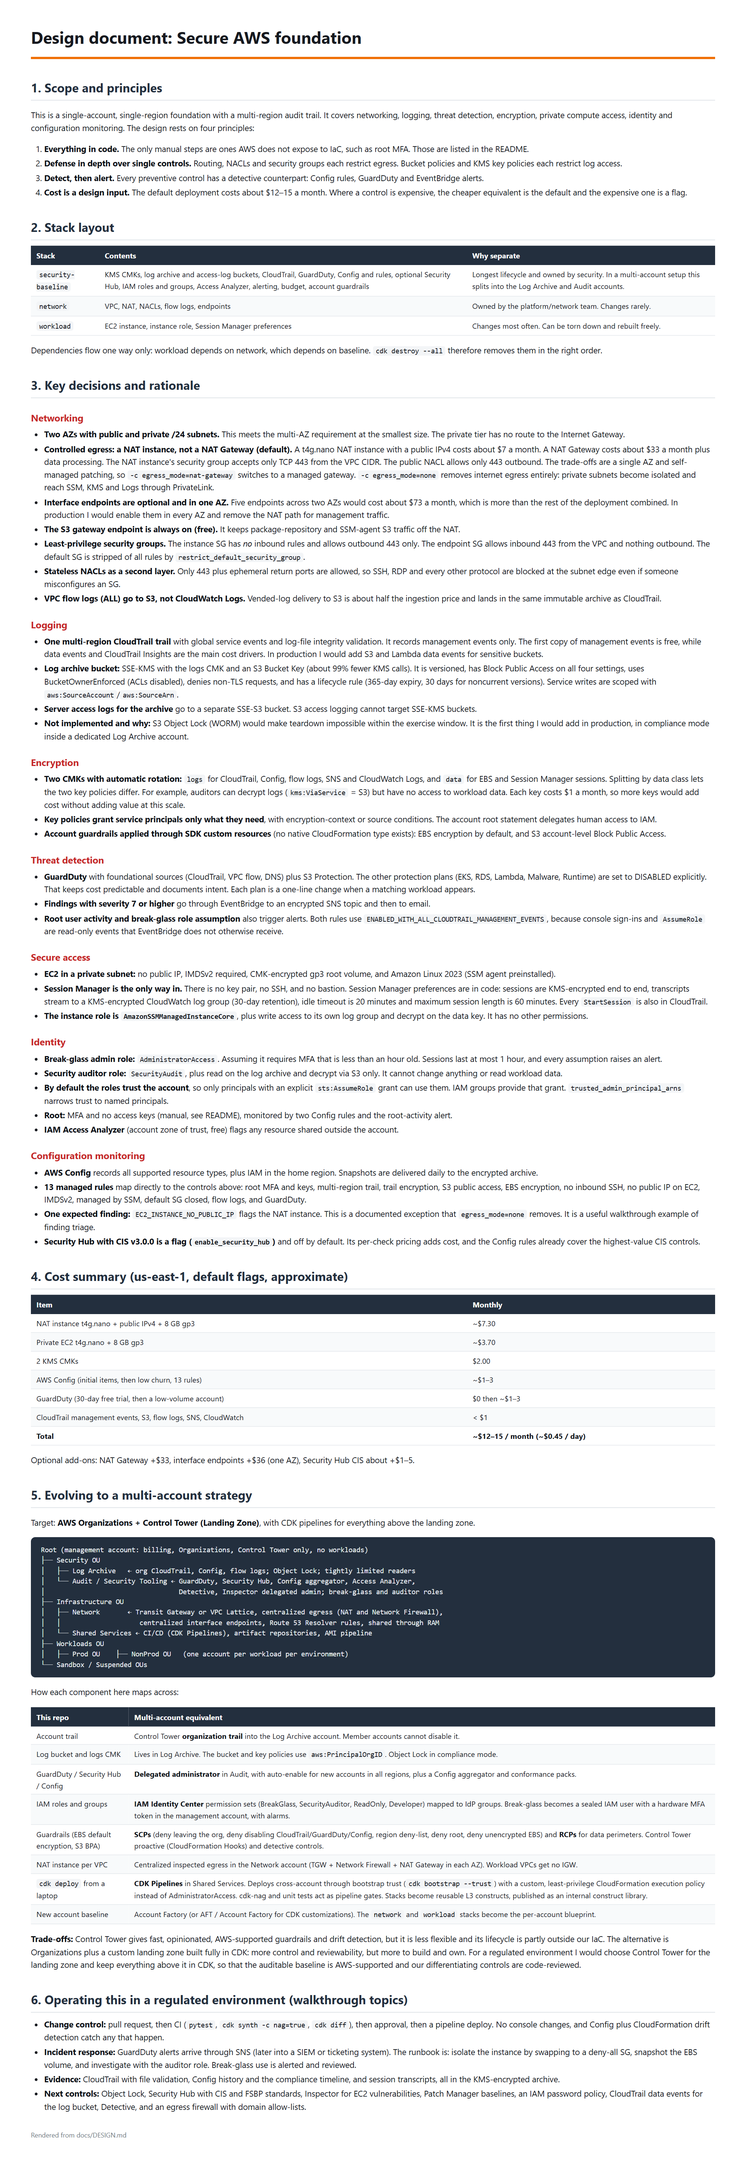
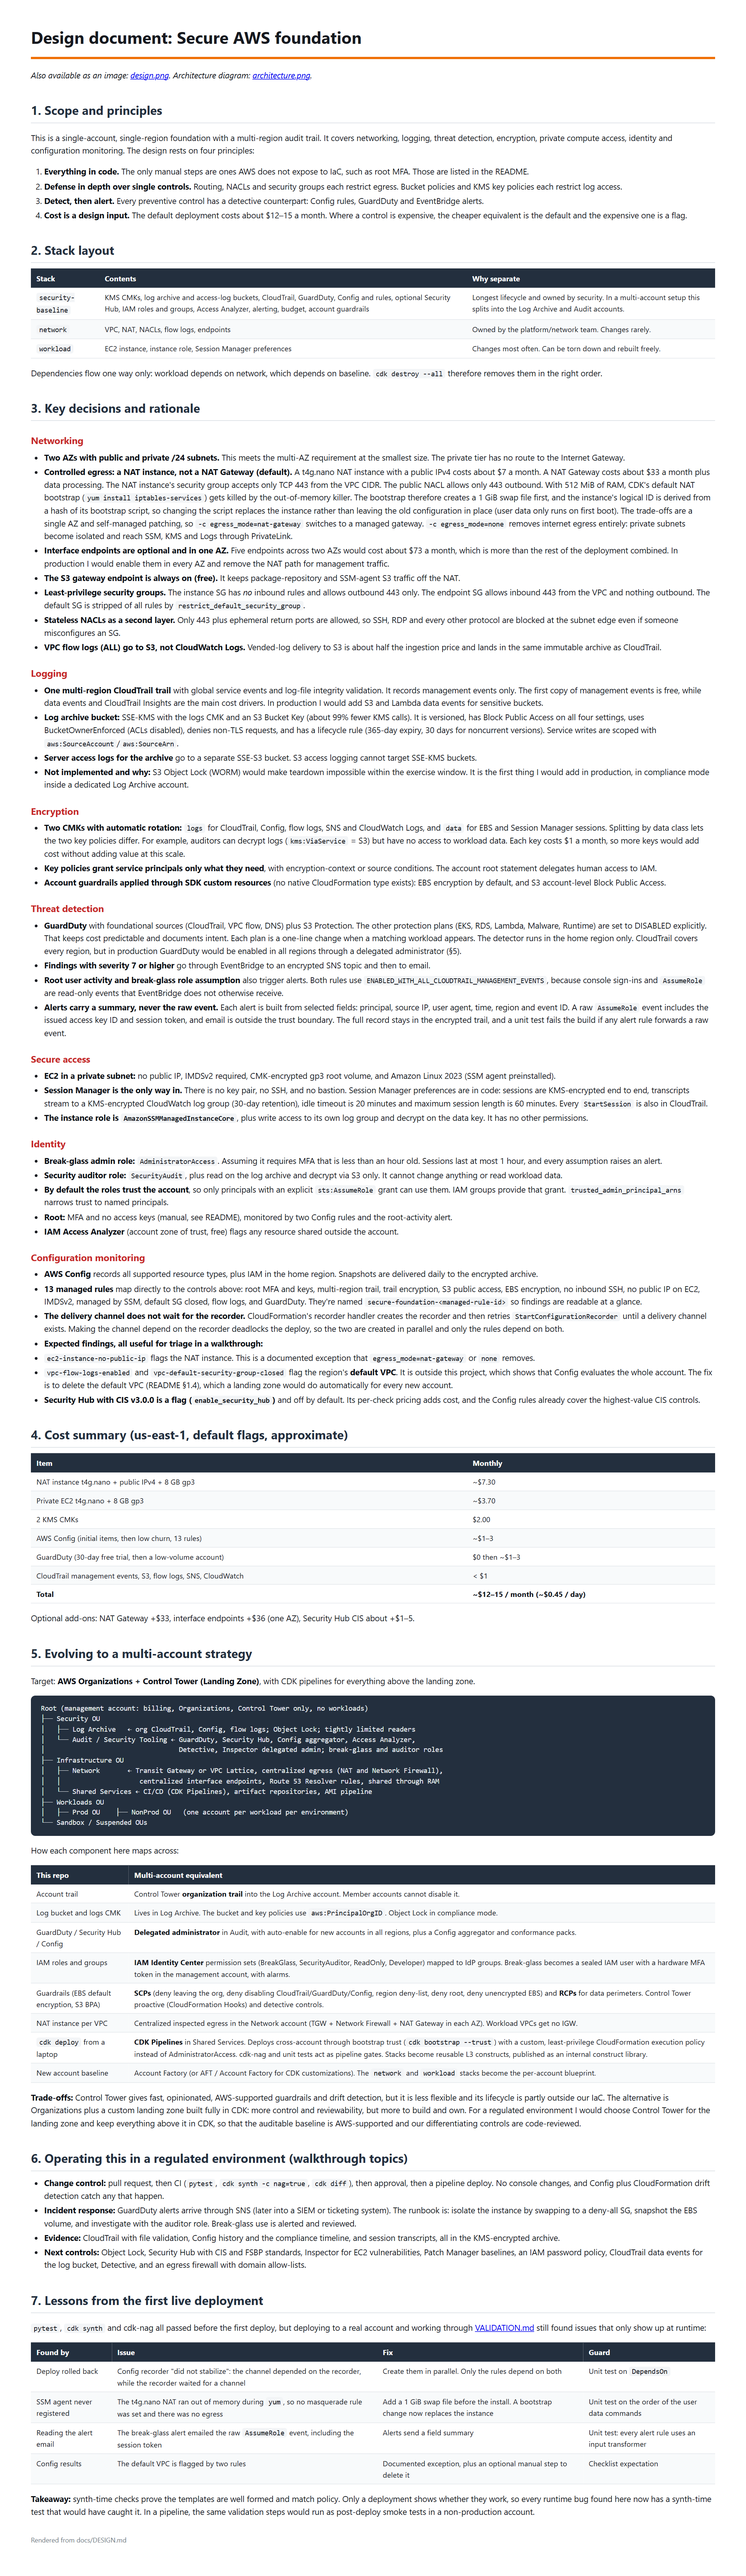
Update DESIGN.md with findings from the live deployment
- NAT instance: swap-before-yum fix and replace-on-bootstrap-change.
- Alerts send field summaries, never raw events (session token leak).
- GuardDuty is home-region only; production would enable all regions.
- Config: readable rule names, channel/recorder ordering, and the
  default-VPC findings alongside the NAT exception.
- New section 7: lessons from the first live deployment, each runtime
  issue paired with the synth-time test that now guards it.
- design.png re-rendered.

Changed region(s): [[0.0311, 0.0, 0.963, 0.9983]]

diff --git a/docs/DESIGN.md b/docs/DESIGN.md
@@ -25,7 +25,7 @@ Dependencies flow one way only: workload depends on network, which depends on ba
 
 ### Networking
 * **Two AZs with public and private /24 subnets.** This meets the multi-AZ requirement at the smallest size. The private tier has no route to the Internet Gateway.
-* **Controlled egress: a NAT instance, not a NAT Gateway (default).** A t4g.nano NAT instance with a public IPv4 costs about $7 a month. A NAT Gateway costs about $33 a month plus data processing. The NAT instance's security group accepts only TCP 443 from the VPC CIDR. The public NACL allows only 443 outbound. The trade-offs are a single AZ and self-managed patching, so `-c egress_mode=nat-gateway` switches to a managed gateway. `-c egress_mode=none` removes internet egress entirely: private subnets become isolated and reach SSM, KMS and Logs through PrivateLink.
+* **Controlled egress: a NAT instance, not a NAT Gateway (default).** A t4g.nano NAT instance with a public IPv4 costs about $7 a month. A NAT Gateway costs about $33 a month plus data processing. The NAT instance's security group accepts only TCP 443 from the VPC CIDR. The public NACL allows only 443 outbound. With 512 MiB of RAM, CDK's default NAT bootstrap (`yum install iptables-services`) gets killed by the out-of-memory killer. The bootstrap therefore creates a 1 GiB swap file first, and the instance's logical ID is derived from a hash of its bootstrap script, so changing the script replaces the instance rather than leaving the old configuration in place (user data only runs on first boot). The trade-offs are a single AZ and self-managed patching, so `-c egress_mode=nat-gateway` switches to a managed gateway. `-c egress_mode=none` removes internet egress entirely: private subnets become isolated and reach SSM, KMS and Logs through PrivateLink.
 * **Interface endpoints are optional and in one AZ.** Five endpoints across two AZs would cost about $73 a month, which is more than the rest of the deployment combined. In production I would enable them in every AZ and remove the NAT path for management traffic.
 * **The S3 gateway endpoint is always on (free).** It keeps package-repository and SSM-agent S3 traffic off the NAT.
 * **Least-privilege security groups.** The instance SG has *no* inbound rules and allows outbound 443 only. The endpoint SG allows inbound 443 from the VPC and nothing outbound. The default SG is stripped of all rules by `restrict_default_security_group`.
@@ -44,9 +44,10 @@ Dependencies flow one way only: workload depends on network, which depends on ba
 * **Account guardrails applied through SDK custom resources** (no native CloudFormation type exists): EBS encryption by default, and S3 account-level Block Public Access.
 
 ### Threat detection
-* **GuardDuty** with foundational sources (CloudTrail, VPC flow, DNS) plus S3 Protection. The other protection plans (EKS, RDS, Lambda, Malware, Runtime) are set to DISABLED explicitly. That keeps cost predictable and documents intent. Each plan is a one-line change when a matching workload appears.
+* **GuardDuty** with foundational sources (CloudTrail, VPC flow, DNS) plus S3 Protection. The other protection plans (EKS, RDS, Lambda, Malware, Runtime) are set to DISABLED explicitly. That keeps cost predictable and documents intent. Each plan is a one-line change when a matching workload appears. The detector runs in the home region only. CloudTrail covers every region, but in production GuardDuty would be enabled in all regions through a delegated administrator (§5).
 * **Findings with severity 7 or higher** go through EventBridge to an encrypted SNS topic and then to email.
 * **Root user activity and break-glass role assumption** also trigger alerts. Both rules use `ENABLED_WITH_ALL_CLOUDTRAIL_MANAGEMENT_EVENTS`, because console sign-ins and `AssumeRole` are read-only events that EventBridge does not otherwise receive.
+* **Alerts carry a summary, never the raw event.** Each alert is built from selected fields: principal, source IP, user agent, time, region and event ID. A raw `AssumeRole` event includes the issued access key ID and session token, and email is outside the trust boundary. The full record stays in the encrypted trail, and a unit test fails the build if any alert rule forwards a raw event.
 
 ### Secure access
 * **EC2 in a private subnet:** no public IP, IMDSv2 required, CMK-encrypted gp3 root volume, and Amazon Linux 2023 (SSM agent preinstalled).
@@ -62,8 +63,11 @@ Dependencies flow one way only: workload depends on network, which depends on ba
 
 ### Configuration monitoring
 * **AWS Config** records all supported resource types, plus IAM in the home region. Snapshots are delivered daily to the encrypted archive.
-* **13 managed rules** map directly to the controls above: root MFA and keys, multi-region trail, trail encryption, S3 public access, EBS encryption, no inbound SSH, no public IP on EC2, IMDSv2, managed by SSM, default SG closed, flow logs, and GuardDuty.
-* **One expected finding:** `EC2_INSTANCE_NO_PUBLIC_IP` flags the NAT instance. This is a documented exception that `egress_mode=none` removes. It is a useful walkthrough example of finding triage.
+* **13 managed rules** map directly to the controls above: root MFA and keys, multi-region trail, trail encryption, S3 public access, EBS encryption, no inbound SSH, no public IP on EC2, IMDSv2, managed by SSM, default SG closed, flow logs, and GuardDuty. They're named `secure-foundation-<managed-rule-id>` so findings are readable at a glance.
+* **The delivery channel does not wait for the recorder.** CloudFormation's recorder handler creates the recorder and then retries `StartConfigurationRecorder` until a delivery channel exists. Making the channel depend on the recorder deadlocks the deploy, so the two are created in parallel and only the rules depend on both.
+* **Expected findings, all useful for triage in a walkthrough:**
+  * `ec2-instance-no-public-ip` flags the NAT instance. This is a documented exception that `egress_mode=nat-gateway` or `none` removes.
+  * `vpc-flow-logs-enabled` and `vpc-default-security-group-closed` flag the region's **default VPC**. It is outside this project, which shows that Config evaluates the whole account. The fix is to delete the default VPC (README §1.4), which a landing zone would do automatically for every new account.
 * **Security Hub with CIS v3.0.0 is a flag (`enable_security_hub`)** and off by default. Its per-check pricing adds cost, and the Config rules already cover the highest-value CIS controls.
 
 ## 4. Cost summary (us-east-1, default flags, approximate)
@@ -120,3 +124,16 @@ How each component here maps across:
 * **Incident response:** GuardDuty alerts arrive through SNS (later into a SIEM or ticketing system). The runbook is: isolate the instance by swapping to a deny-all SG, snapshot the EBS volume, and investigate with the auditor role. Break-glass use is alerted and reviewed.
 * **Evidence:** CloudTrail with file validation, Config history and the compliance timeline, and session transcripts, all in the KMS-encrypted archive.
 * **Next controls:** Object Lock, Security Hub with CIS and FSBP standards, Inspector for EC2 vulnerabilities, Patch Manager baselines, an IAM password policy, CloudTrail data events for the log bucket, Detective, and an egress firewall with domain allow-lists.
+
+## 7. Lessons from the first live deployment
+
+`pytest`, `cdk synth` and cdk-nag all passed before the first deploy, but deploying to a real account and working through [VALIDATION.md](VALIDATION.md) still found issues that only show up at runtime:
+
+| Found by | Issue | Fix | Guard |
+|----------|-------|-----|-------|
+| Deploy rolled back | Config recorder "did not stabilize": the channel depended on the recorder, while the recorder waited for a channel | Create them in parallel. Only the rules depend on both | Unit test on `DependsOn` |
+| SSM agent never registered | The t4g.nano NAT ran out of memory during `yum`, so no masquerade rule was set and there was no egress | Add a 1 GiB swap file before the install. A bootstrap change now replaces the instance | Unit test on the order of the user data commands |
+| Reading the alert email | The break-glass alert emailed the raw `AssumeRole` event, including the session token | Alerts send a field summary | Unit test: every alert rule uses an input transformer |
+| Config results | The default VPC is flagged by two rules | Documented exception, plus an optional manual step to delete it | Checklist expectation |
+
+**Takeaway:** synth-time checks prove the templates are well formed and match policy. Only a deployment shows whether they work, so every runtime bug found here now has a synth-time test that would have caught it. In a pipeline, the same validation steps would run as post-deploy smoke tests in a non-production account.
